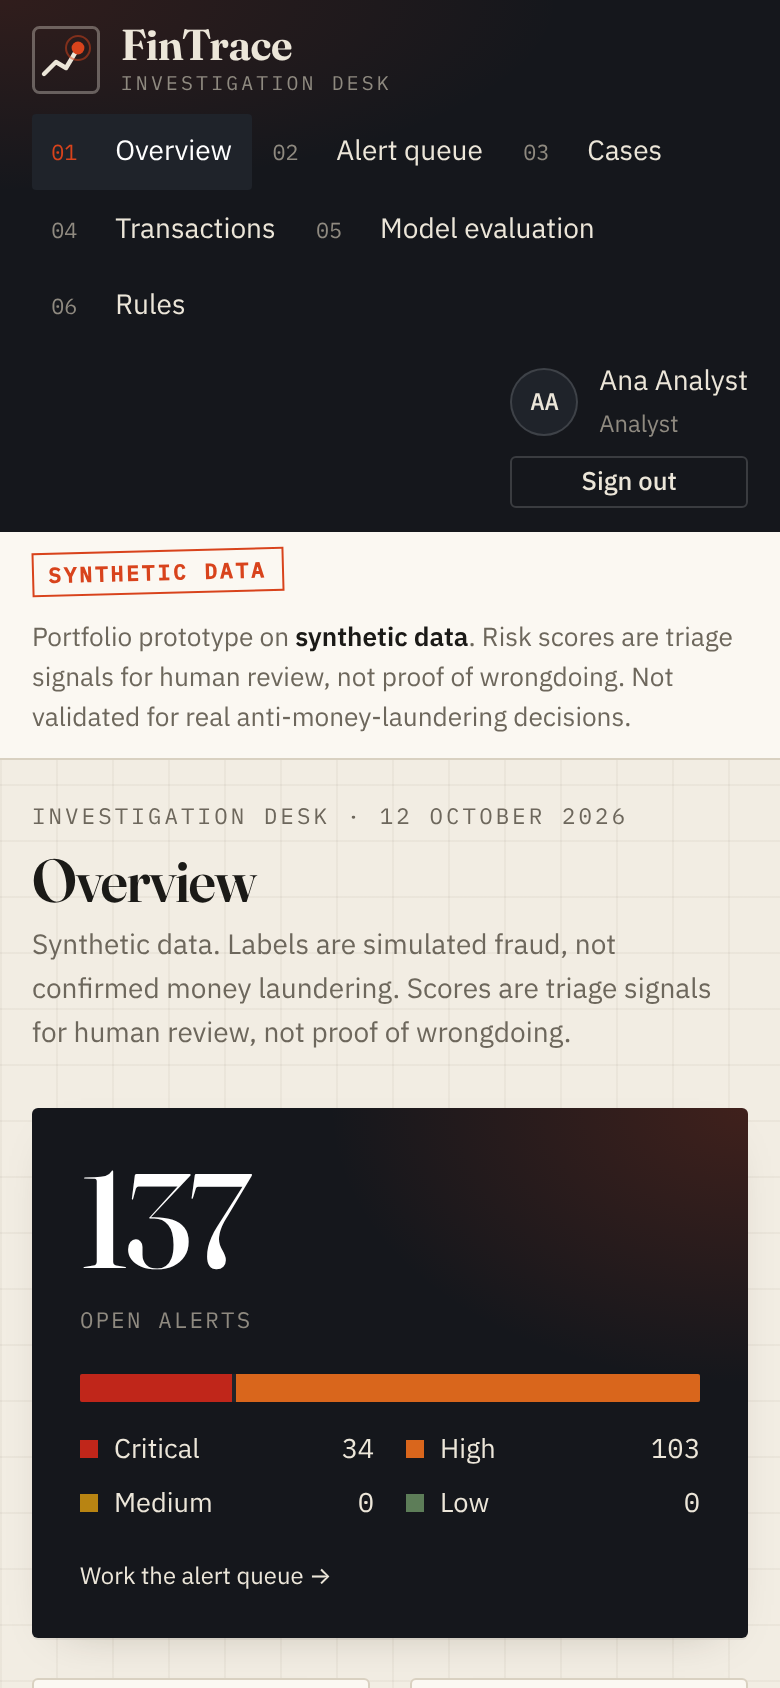
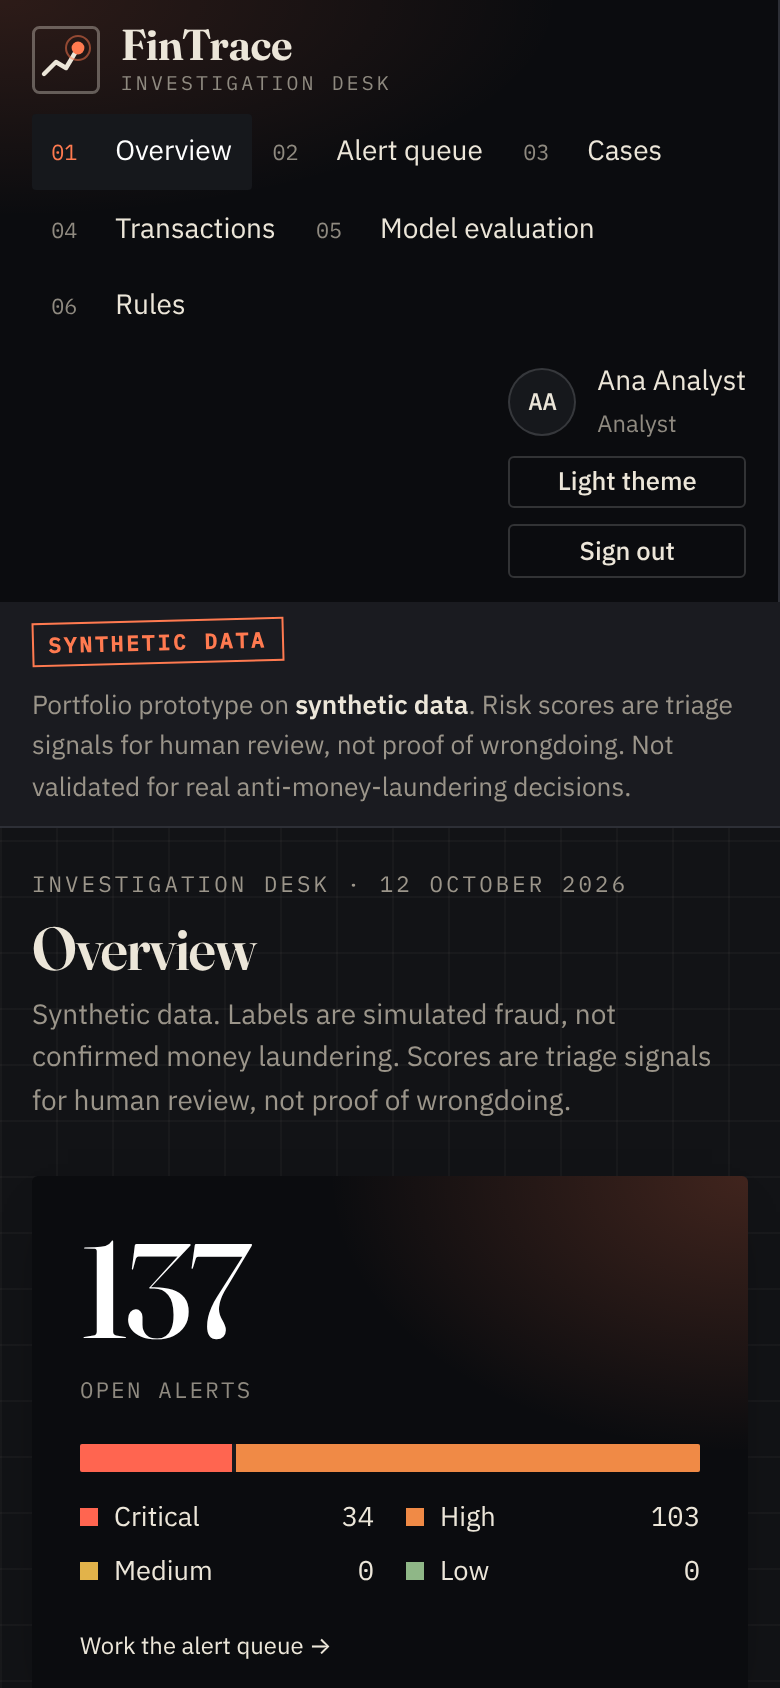
feat: dark theme by default with a light theme switch

diff --git a/frontend/src/styles.css b/frontend/src/styles.css
@@ -1,6 +1,6 @@
 /*
  * FinTrace visual language: an investigator's ledger.
- * Warm paper, ink-dark navigation, ruled tables, a serif for headlines and a mono for figures.
+ * Ink-dark by default (warm paper as the light alternative), ruled tables, a serif for headlines and a mono for figures.
  * Risk runs on one heat scale (sage -> ochre -> ember -> vermilion) used by badges, bars and the histogram.
  */
 :root {
@@ -41,38 +41,37 @@
   color-scheme: light;
 }
 
-@media (prefers-color-scheme: dark) {
-  :root {
-    --paper: #111215;
-    --grid: rgba(255, 245, 225, 0.03);
-    --surface: #18191d;
-    --surface-2: #22242a;
-    --text: #ece6d9;
-    --muted: #9b958a;
-    --border: #2d2f36;
-    --rule: #3a3c44;
-    --ink: #0a0b0d;
-    --ink-2: #16181c;
-    --accent: #4fb3a7;
-    --accent-text: #0b1312;
-    --signal: #ff7a50;
-    --danger: #ff8270;
-    --warning-bg: #3a2e12;
-    --warning-text: #f2d08a;
-    --low: #8fb787;
-    --medium: #e2b34a;
-    --high: #f08a46;
-    --critical: #ff6550;
-    --fraud: #ff6550;
-    --bar: #565c58;
-    --heat-0: #4c534f;
-    --heat-1: #6e6a4b;
-    --heat-2: #a17a33;
-    --heat-3: #d06a2a;
-    --heat-4: #ff5a43;
-    --shadow: 0 1px 0 rgba(0, 0, 0, 0.4), 0 10px 28px -18px rgba(0, 0, 0, 0.9);
-    color-scheme: dark;
-  }
+/* Dark ink is the default theme; light paper is the alternative (data-theme="light" on <html>). */
+:root:not([data-theme="light"]) {
+  --paper: #121316;
+  --grid: rgba(255, 245, 225, 0.03);
+  --surface: #1a1b20;
+  --surface-2: #22242a;
+  --text: #ece6d9;
+  --muted: #9b958a;
+  --border: #2d2f36;
+  --rule: #3a3c44;
+  --ink: #0b0c0f;
+  --ink-2: #16181c;
+  --accent: #4fb3a7;
+  --accent-text: #0b1312;
+  --signal: #ff7a50;
+  --danger: #ff8270;
+  --warning-bg: #3a2e12;
+  --warning-text: #f2d08a;
+  --low: #8fb787;
+  --medium: #e2b34a;
+  --high: #f08a46;
+  --critical: #ff6550;
+  --fraud: #ff6550;
+  --bar: #565c58;
+  --heat-0: #4c534f;
+  --heat-1: #6e6a4b;
+  --heat-2: #a17a33;
+  --heat-3: #d06a2a;
+  --heat-4: #ff5a43;
+  --shadow: 0 1px 0 rgba(0, 0, 0, 0.4), 0 10px 28px -18px rgba(0, 0, 0, 0.9);
+  color-scheme: dark;
 }
 
 * { box-sizing: border-box; }
@@ -108,11 +107,12 @@ pre { font-family: var(--font-mono); background: var(--surface-2); padding: 0.75
 .nowrap { white-space: nowrap; }
 
 /* Shell */
-.shell { display: flex; min-height: 100vh; background: linear-gradient(to right, var(--ink) 236px, transparent 236px); }
+.shell { display: flex; min-height: 100vh; background: linear-gradient(to right, var(--ink) 235px, var(--border) 235px 236px, transparent 236px); }
 .sidebar {
   width: 236px; flex-shrink: 0; background: var(--ink); color: var(--ink-text);
   display: flex; flex-direction: column; padding: 1.4rem 0.9rem 1rem; position: sticky; top: 0; height: 100vh;
   background-image: radial-gradient(120% 60% at 0% 0%, color-mix(in srgb, var(--signal) 14%, transparent), transparent 60%);
+  border-right: 1px solid var(--border);
 }
 .brand { display: grid; grid-template-columns: auto 1fr; column-gap: 0.65rem; align-items: center; padding: 0 0.4rem 1.6rem; }
 .brand-mark { width: 34px; height: 34px; grid-row: span 2; display: block; }
@@ -140,6 +140,8 @@ pre { font-family: var(--font-mono); background: var(--surface-2); padding: 0.75
 .sidebar-user .muted { color: var(--ink-muted); }
 .sidebar-user .btn { grid-column: 1 / -1; margin-top: 0.6rem; color: var(--ink-text); border-color: rgba(255, 255, 255, 0.16); }
 .sidebar-user .btn:hover { border-color: var(--signal); }
+.theme-toggle { grid-column: 1 / -1; margin-top: 0.6rem; }
+.sidebar-user .theme-toggle + .btn { margin-top: 0.4rem; }
 .main { flex: 1; min-width: 0; display: flex; flex-direction: column; }
 .banner {
   display: flex; align-items: center; gap: 0.75rem; flex-wrap: wrap;
@@ -389,3 +391,9 @@ tr.highlight td { background: color-mix(in srgb, var(--signal) 8%, transparent);
   .login { grid-template-columns: 1fr; }
   .login-art { padding: 2rem 1.25rem; }
 }
+
+/* On dark ink, the primary button is the light one. */
+:root:not([data-theme="light"]) .btn-primary { background: var(--text); border-color: var(--text); color: var(--paper); }
+:root:not([data-theme="light"]) .btn-primary:hover:not(:disabled) { background: var(--signal); border-color: var(--signal); color: #fff; }
+.login-side { position: relative; }
+.login-side .theme-toggle { position: absolute; top: 1.25rem; right: 1.25rem; }

diff --git a/frontend/src/test/pages.test.tsx b/frontend/src/test/pages.test.tsx
@@ -62,6 +62,17 @@ const alert: Alert = {
 };
 
 describe("login", () => {
+  it("defaults to the dark theme and remembers a switch to light", async () => {
+    mockApi({}, null);
+    renderPage(<App />, { route: "/", signedIn: false });
+    await userEvent.click(await screen.findByRole("button", { name: "Light theme" }));
+    expect(document.documentElement.dataset.theme).toBe("light");
+    expect(localStorage.getItem("fintrace-theme")).toBe("light");
+    await userEvent.click(screen.getByRole("button", { name: "Dark theme" }));
+    expect(document.documentElement.dataset.theme).toBe("dark");
+    localStorage.clear();
+  });
+
   it("redirects to login and shows the API's message on bad credentials", async () => {
     mockApi(
       { "POST /auth/login": () => ({ status: 401, body: { error: { code: "UNAUTHORIZED", message: "Invalid email or password", details: [], request_id: "r" } } }) },

diff --git a/frontend/src/main.tsx b/frontend/src/main.tsx
@@ -5,6 +5,7 @@ import { BrowserRouter } from "react-router";
 import { ApiError } from "./api/client";
 import { App } from "./App";
 import { AuthProvider } from "./auth/AuthContext";
+import { applyTheme, storedTheme } from "./lib/theme";
 import "@fontsource-variable/fraunces/opsz.css";
 import "@fontsource/ibm-plex-sans/latin-400.css";
 import "@fontsource/ibm-plex-sans/latin-500.css";
@@ -12,6 +13,8 @@ import "@fontsource/ibm-plex-sans/latin-600.css";
 import "@fontsource/ibm-plex-mono/latin-400.css";
 import "@fontsource/ibm-plex-mono/latin-500.css";
 import "./styles.css";
+
+applyTheme(storedTheme());
 
 const queryClient = new QueryClient({
   defaultOptions: {

diff --git a/frontend/src/components/Layout.tsx b/frontend/src/components/Layout.tsx
@@ -3,6 +3,7 @@ import { useAuth, useUser } from "../auth/AuthContext";
 import { humanize } from "../lib/format";
 import { hasRole } from "../lib/roles";
 import { BrandMark } from "./BrandMark";
+import { ThemeToggle } from "./ThemeToggle";
 
 function initials(name: string) {
   const parts = name.trim().split(/\s+/);
@@ -45,6 +46,7 @@ export function Layout() {
           </span>
           <div>{user.full_name}</div>
           <div className="muted small">{humanize(user.role)}</div>
+          <ThemeToggle />
           <button type="button" className="btn btn-small btn-ghost" onClick={logout}>
             Sign out
           </button>

diff --git a/frontend/src/pages/LoginPage.tsx b/frontend/src/pages/LoginPage.tsx
@@ -3,6 +3,7 @@ import { Navigate, useLocation } from "react-router";
 import { useAuth } from "../auth/AuthContext";
 import { BrandMark } from "../components/BrandMark";
 import { InlineError } from "../components/States";
+import { ThemeToggle } from "../components/ThemeToggle";
 
 export function LoginPage() {
   const { user, login } = useAuth();
@@ -55,6 +56,7 @@ export function LoginPage() {
         </p>
       </aside>
       <div className="login-side">
+        <ThemeToggle />
         <form className="login-card" onSubmit={submit}>
           <p className="eyebrow">Analyst sign-in</p>
           <h1>Welcome back</h1>

diff --git a/frontend/src/lib/theme.ts b/frontend/src/lib/theme.ts
@@ -1,0 +1,21 @@
+export type Theme = "dark" | "light";
+
+const KEY = "fintrace-theme";
+
+/** Dark is the default. The choice is a per-browser convenience, so storage failures are ignored. */
+export function storedTheme(): Theme {
+  try {
+    return localStorage.getItem(KEY) === "light" ? "light" : "dark";
+  } catch {
+    return "dark";
+  }
+}
+
+export function applyTheme(theme: Theme) {
+  document.documentElement.dataset.theme = theme;
+  try {
+    localStorage.setItem(KEY, theme);
+  } catch {
+    // Private mode or blocked storage: the theme still applies for this visit.
+  }
+}

diff --git a/frontend/src/components/ThemeToggle.tsx b/frontend/src/components/ThemeToggle.tsx
@@ -1,0 +1,19 @@
+import { useState } from "react";
+import { applyTheme, storedTheme, type Theme } from "../lib/theme";
+
+export function ThemeToggle() {
+  const [theme, setTheme] = useState<Theme>(storedTheme);
+  const next: Theme = theme === "dark" ? "light" : "dark";
+  return (
+    <button
+      type="button"
+      className="btn btn-small btn-ghost theme-toggle"
+      onClick={() => {
+        applyTheme(next);
+        setTheme(next);
+      }}
+    >
+      {next === "light" ? "Light theme" : "Dark theme"}
+    </button>
+  );
+}
